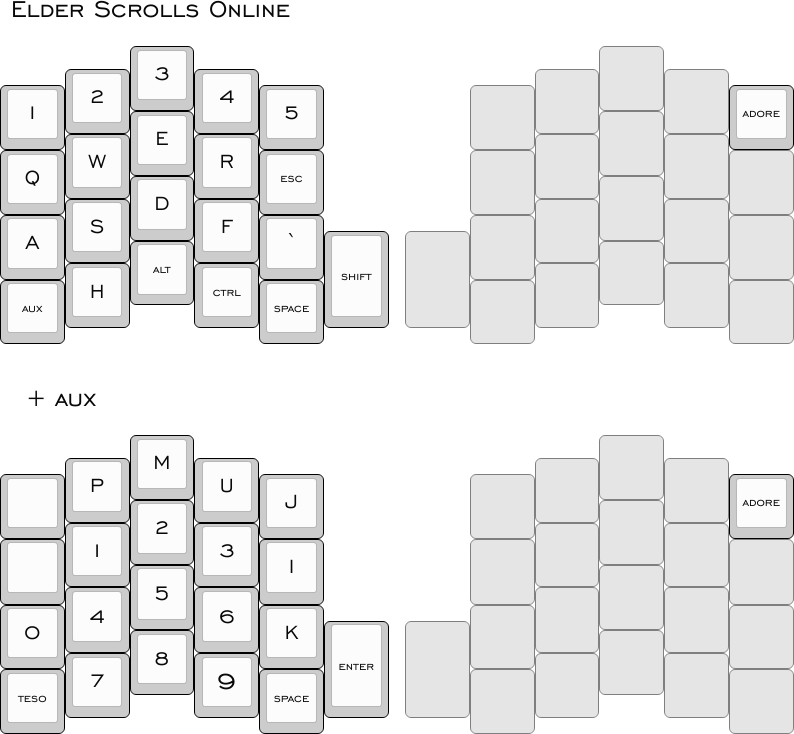
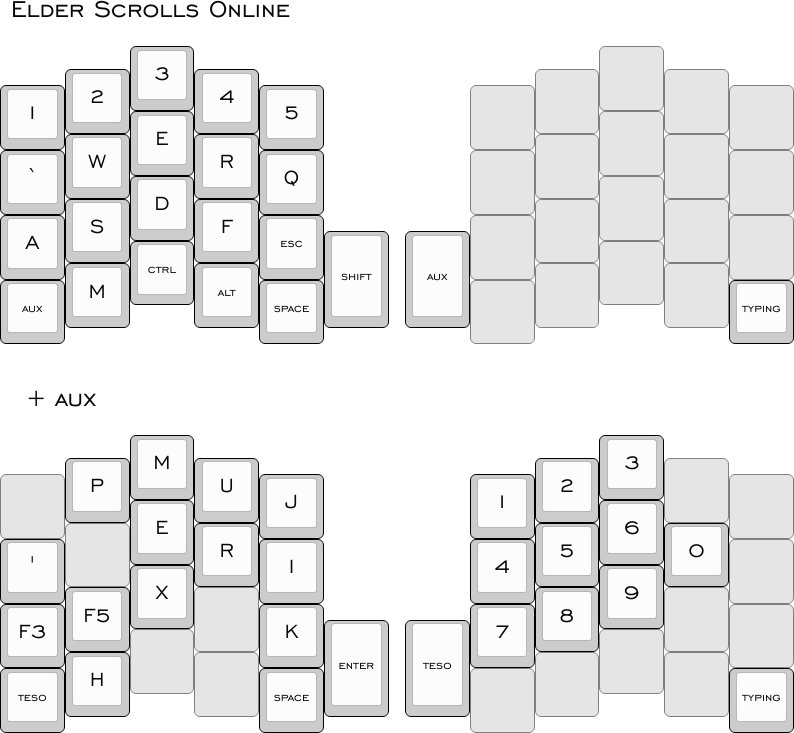
Major rearrangement of the TESO layers
Fixes #5.

diff --git a/src/keymap.h b/src/keymap.h
@@ -95,28 +95,28 @@ KEYMAPS(
 
   [TESO] = KEYMAP_STACKED
   (
-       Key_1   ,Key_2 ,Key_3       ,Key_4           ,Key_5
-      ,Key_Q   ,Key_W ,Key_E       ,Key_R           ,Key_Esc
-      ,Key_A   ,Key_S ,Key_D       ,Key_F           ,Key_Backtick
-      ,MO(AUX) ,Key_H ,Key_LeftAlt ,Key_LeftControl ,Key_Space ,Key_LeftShift
+       Key_1        ,Key_2 ,Key_3           ,Key_4       ,Key_5
+      ,Key_Backtick ,Key_W ,Key_E           ,Key_R       ,Key_Q
+      ,Key_A        ,Key_S ,Key_D           ,Key_F       ,Key_Esc
+      ,OSL(AUX)     ,Key_M ,Key_LeftControl ,Key_LeftAlt ,Key_Space ,Key_LeftShift
 
-           ,XXX ,XXX ,XXX ,XXX ,M(M_TYPING)
-           ,XXX ,XXX ,XXX ,XXX ,XXX
-           ,XXX ,XXX ,XXX ,XXX ,XXX
-      ,XXX ,XXX ,XXX ,XXX ,XXX ,XXX
+                ,XXX ,XXX ,XXX ,XXX ,XXX
+                ,XXX ,XXX ,XXX ,XXX ,XXX
+                ,XXX ,XXX ,XXX ,XXX ,XXX
+      ,OSL(AUX) ,XXX ,XXX ,XXX ,XXX ,M(M_TYPING)
   ),
 
   [AUX] = KEYMAP_STACKED
   (
-       XXX   ,Key_P ,Key_M ,Key_U ,Key_J
-      ,XXX   ,Key_1 ,Key_2 ,Key_3 ,Key_I
-      ,Key_0 ,Key_4 ,Key_5 ,Key_6 ,Key_K
-      ,___   ,Key_7 ,Key_8 ,Key_9 ,Key_Space ,Key_Enter
+       XXX       ,Key_P  ,Key_M ,Key_U ,Key_J
+      ,Key_Quote ,XXX    ,Key_E ,Key_R ,Key_I
+      ,Key_F3    ,Key_F5 ,Key_X ,XXX   ,Key_K
+      ,___       ,Key_H  ,XXX   ,XXX   ,Key_Space ,Key_Enter
 
-           ,XXX ,XXX ,XXX ,XXX ,M(M_TYPING)
-           ,XXX ,XXX ,XXX ,XXX ,XXX
-           ,XXX ,XXX ,XXX ,XXX ,XXX
-      ,XXX ,XXX ,XXX ,XXX ,XXX ,XXX
+           ,Key_1 ,Key_2 ,Key_3 ,XXX   ,XXX
+           ,Key_4 ,Key_5 ,Key_6 ,Key_0 ,XXX
+           ,Key_7 ,Key_8 ,Key_9 ,XXX   ,XXX
+      ,___ ,XXX   ,XXX   ,XXX   ,XXX   ,M(M_TYPING)
   ),
 )
 /* *INDENT-ON* */
